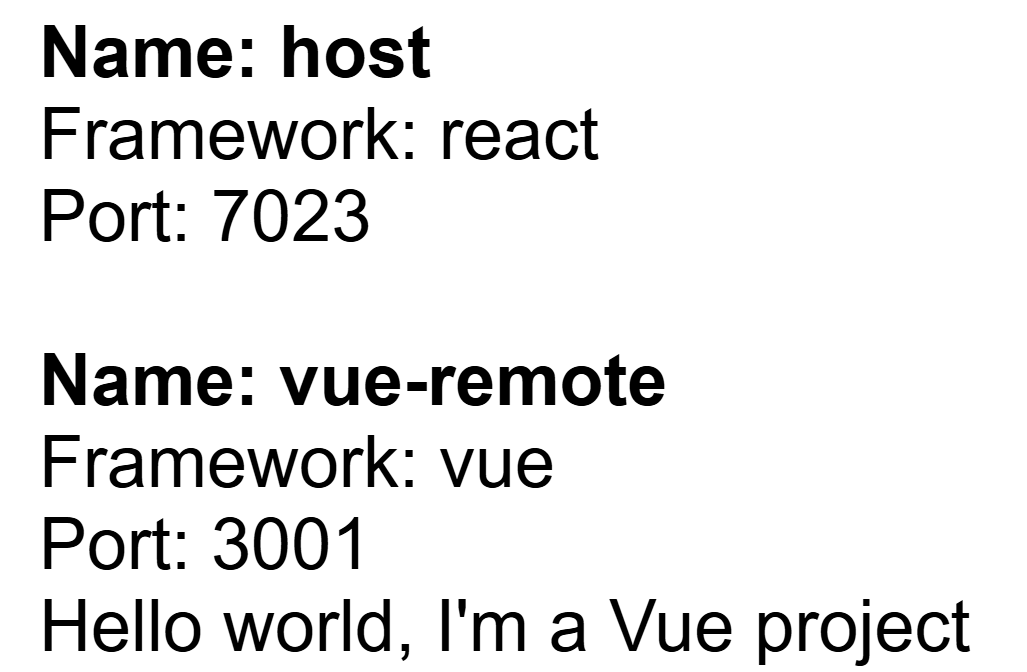
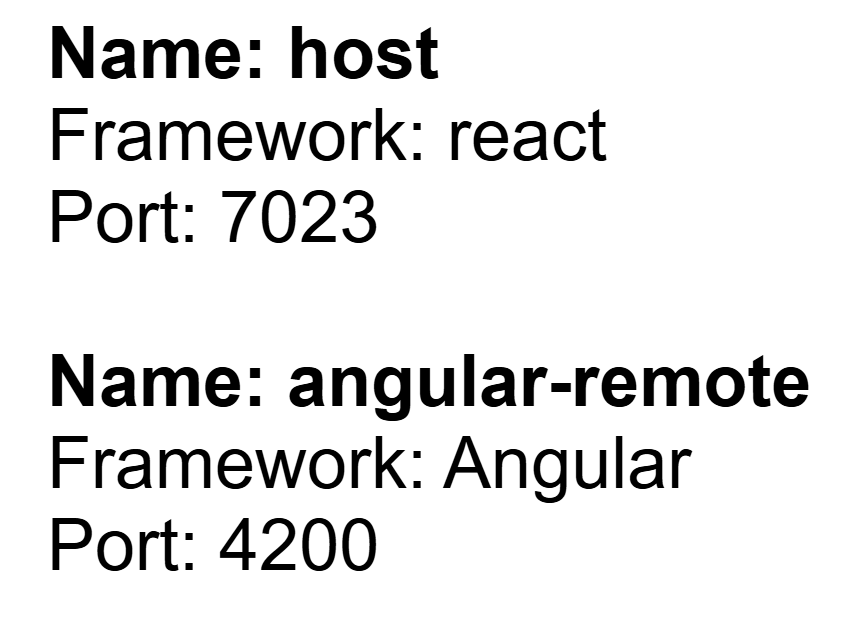
Angular project works

diff --git a/micro-fes/micro-fe-from-basic-sample-try-different-frameworks/angular/angular-remote/src/app/app.ts b/micro-fes/micro-fe-from-basic-sample-try-different-frameworks/angular/angular-remote/src/app/app.ts
@@ -4,11 +4,10 @@ import { Component, Input } from '@angular/core';
   selector: 'app-root',
   template: `
     <div>
-      <div>Name: angular-remote</div>
+      <div><b>Name: angular-remote</b></div>
       <div>Framework: Angular</div>
-      <div>Language: TypeScript</div>
-      <div>not working sadly when exported to the react host</div>
+      <div>Port: 4200</div>
     </div>
   `,
 })
-export class App {}
+export class App { }

diff --git a/micro-fes/micro-fe-from-basic-sample-try-different-frameworks/angular/host/webpack.config.js b/micro-fes/micro-fe-from-basic-sample-try-different-frameworks/angular/host/webpack.config.js
@@ -44,7 +44,10 @@ module.exports = (_, argv) => ({
       name: "host",
       filename: "remoteEntry.js",
       remotes: {
-        remote: "remote@http://localhost:4200/remoteEntry.js",
+        remote: `promise import('http://localhost:4200/remoteEntry.js').then(module => ({
+          get: module.get,
+          init: module.init
+        }))`,
       },
       exposes: {},
       shared: {

diff --git a/micro-fes/micro-fe-from-basic-sample-try-different-frameworks/angular/host/src/MainHost.jsx b/micro-fes/micro-fe-from-basic-sample-try-different-frameworks/angular/host/src/MainHost.jsx
@@ -3,10 +3,10 @@ import React from "react";
 export default function MainHost() {
     return (
         <>
-            <div>Name: host</div>
+            <div><b>Name: host</b></div>
             <div>Framework: react</div>
-            <div>Language: JavaScript</div>
-            <div>CSS: Empty CSS</div>
+            <div>Port: 7023</div>
+            <br />
         </>
     );
 }

diff --git a/micro-fes/micro-fe-from-basic-sample-try-different-frameworks/angular/host/src/AppHost.jsx b/micro-fes/micro-fe-from-basic-sample-try-different-frameworks/angular/host/src/AppHost.jsx
@@ -1,5 +1,5 @@
 import React from "react";
-import ReactDOM from "react-dom";
+import ReactDOM from "react-dom/client";
 
 import "./index.css";
 
@@ -14,4 +14,5 @@ const AppHost = () => (
   </div>
 );
 
-ReactDOM.render(<AppHost />, document.getElementById("app"));
+const root = ReactDOM.createRoot(document.getElementById("app"));
+root.render(<AppHost />);

diff --git a/micro-fes/micro-fe-from-basic-sample-try-different-frameworks/README.md b/micro-fes/micro-fe-from-basic-sample-try-different-frameworks/README.md
@@ -6,8 +6,12 @@ Each one of the projects corresponds to a combination of a React 19 Host, with o
 - React v19
 
 **Microfrontend:**
-- ❌ Angular 
-- ✅ Vue.js 
+- ✅ Angular 
 ![alt text](image/1.png)
+- ✅ Vue.js 
+![alt text](image/2.png)
 - ❌ SolidJS 
 - ❌ React v18 
+
+## Cross Frameworks or CJS vs ESM
+.
